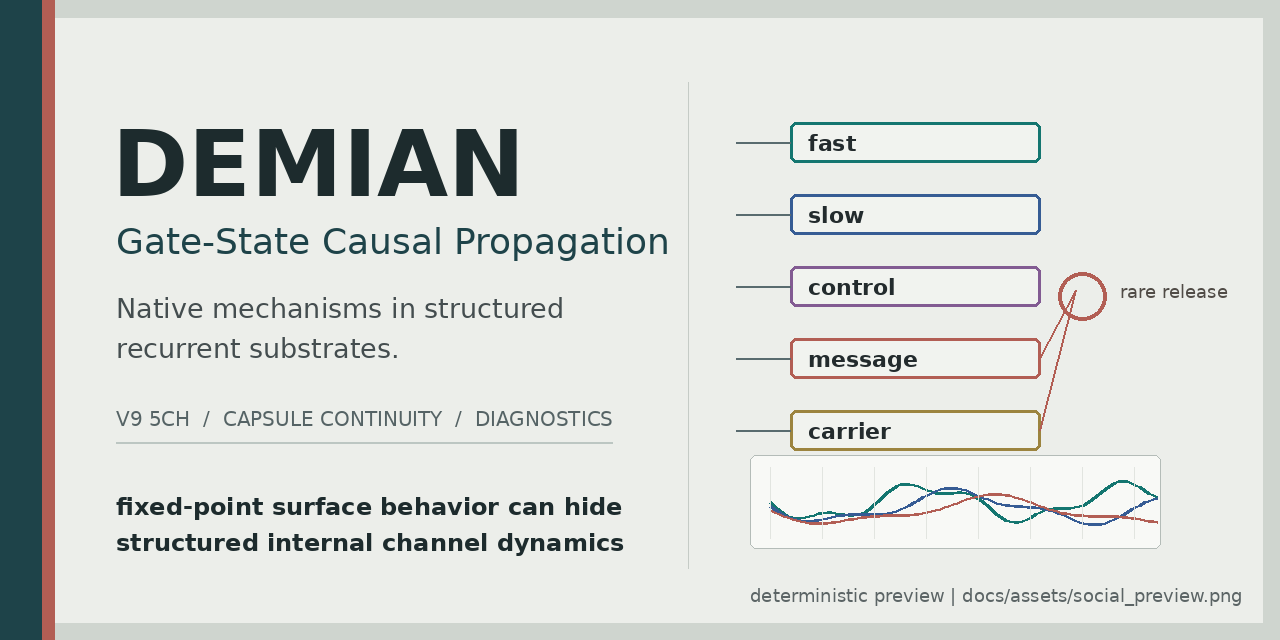
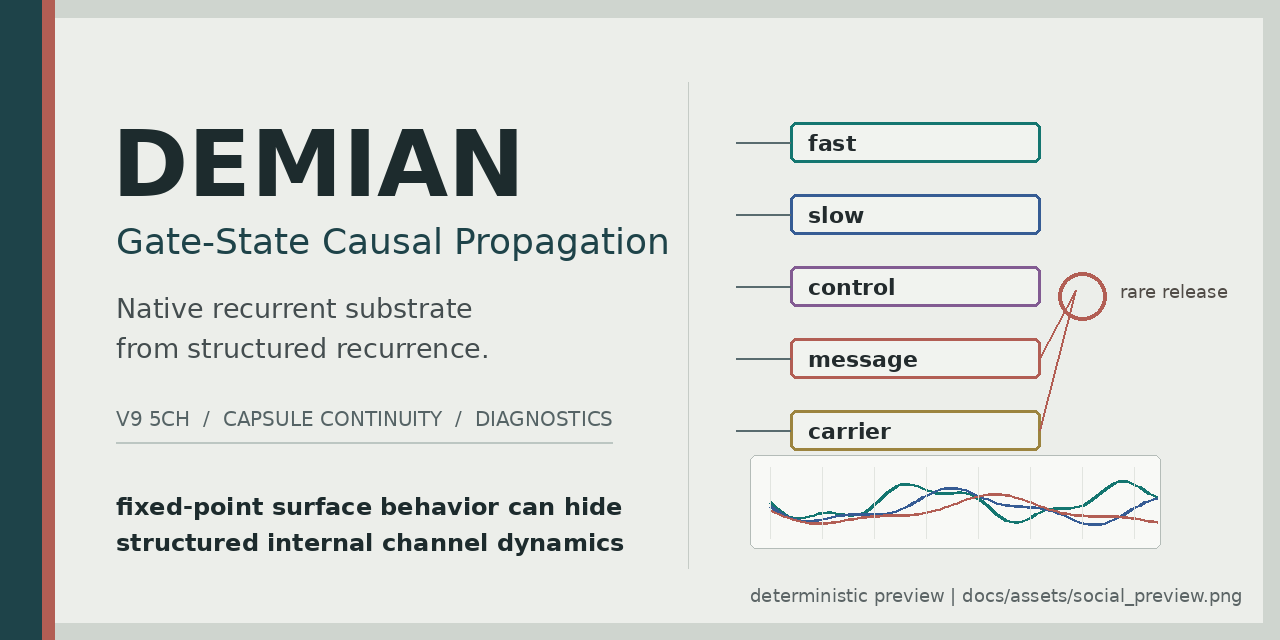
docs(readme): Frame Demian as substrate

Changed region(s): [[0.1562, 0.4688, 0.4375, 0.5], [0.0938, 0.5312, 0.375, 0.5625]]

diff --git a/scripts/render_social_preview.py b/scripts/render_social_preview.py
@@ -116,8 +116,8 @@ def render() -> None:
 
     draw.text((112, 110), "DEMIAN", fill=(29, 43, 45), font=title_font)
     draw.text((116, 220), "Gate-State Causal Propagation", fill=(30, 67, 73), font=subtitle_font)
-    draw.text((116, 292), "Native mechanisms in structured", fill=(68, 77, 79), font=body_font)
-    draw.text((116, 332), "recurrent substrates.", fill=(68, 77, 79), font=body_font)
+    draw.text((116, 292), "Native recurrent substrate", fill=(68, 77, 79), font=body_font)
+    draw.text((116, 332), "from structured recurrence.", fill=(68, 77, 79), font=body_font)
 
     meta = "V9 5CH  /  CAPSULE CONTINUITY  /  DIAGNOSTICS"
     draw.text((116, 407), meta, fill=(85, 99, 101), font=small_font)

diff --git a/README.md b/README.md
@@ -1,6 +1,8 @@
 # Demian
 
-Demian is a research lab for discovering native mechanisms in structured recurrent substrates.
+Demian is the target native recurrent substrate: a custom architecture program
+distilled from structured recurrence, gate-state causality, and substrate
+lineage experiments.
 
 [![Release](https://img.shields.io/github/v/release/Aeshma-Daeva/Demian?include_prereleases&label=release)](https://github.com/Aeshma-Daeva/Demian/releases)
 [![Tests](https://img.shields.io/badge/tests-pytest%20local-2f6f6a)](#environment)
@@ -8,7 +10,12 @@ Demian is a research lab for discovering native mechanisms in structured recurre
 [![Python](https://img.shields.io/badge/python-3.12%2B-315f8f)](pyproject.toml)
 [![Technical Report](https://img.shields.io/badge/technical%20report-GitHub-3b5f7a)](docs/TECHNICAL_REPORT.md)
 
-The project is not aimed at productizing a chatbot, chasing benchmarks, or optimizing for human-facing output quality. The working goal is to study how frozen and semi-adaptive AI systems behave when their own internal state, recurrence, memory, and inter-agent coupling become the substrate of continued evolution, then extract the mechanisms that matter enough to build a custom substrate.
+The surrounding repo is the Native Substrate Research Lab. It is not aimed at
+productizing a chatbot, chasing benchmarks, or optimizing for human-facing
+output quality. The working goal is to study how frozen and semi-adaptive AI
+systems behave when their own internal state, recurrence, memory, and
+inter-agent coupling become the substrate of continued evolution, then extract
+the mechanisms that matter enough to build Demian.
 
 **Strongest current result:** fixed-point surface behavior can hide structured internal channel dynamics, so surface labels alone are not enough to judge a substrate.
 
@@ -18,7 +25,8 @@ Quick links: [Technical Report](docs/TECHNICAL_REPORT.md) | [Reproducibility](do
 
 ## At A Glance
 
-Demian is publishable today as an ongoing research notebook with a clear evidence ledger, not as a finished architecture announcement.
+The repo is publishable today as an ongoing research notebook with a clear
+evidence ledger, not as a finished architecture announcement.
 
 Current public center:
 

diff --git a/docs/PUBLISHMENT.md b/docs/PUBLISHMENT.md
@@ -37,7 +37,7 @@ Publication entry points:
 
 Recommended public metadata:
 
-- Description: `Research lab for discovering native mechanisms in structured recurrent substrates.`
+- Description: `Native recurrent substrate program for structured recurrence and gate-state causal propagation.`
 - Topics: `recurrent-neural-networks`, `dynamical-systems`,
   `mechanistic-interpretability`, `evolutionary-search`, `ai-research`
 
@@ -58,7 +58,8 @@ language. It is not AI-generated art.
 
 ## Position
 
-Demian is publishable as an ongoing computational research notebook, not as a finished architecture claim.
+The Demian repository is publishable as an ongoing computational research
+notebook, not as a finished architecture claim.
 
 The strongest value is the experimental lineage and measurement discipline:
 
